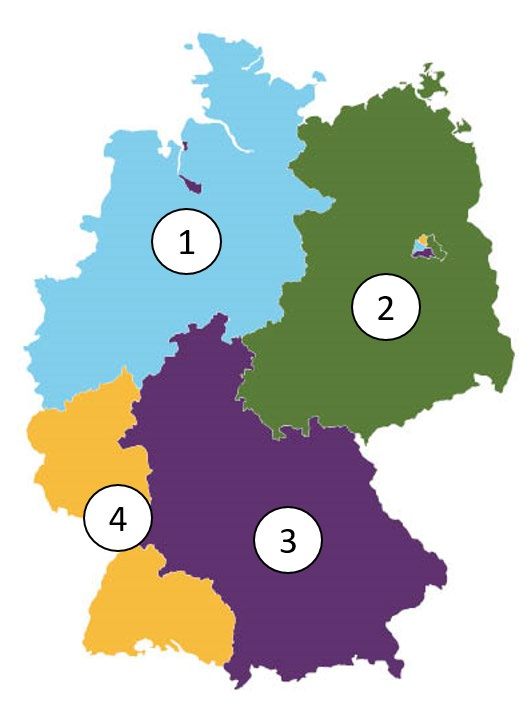
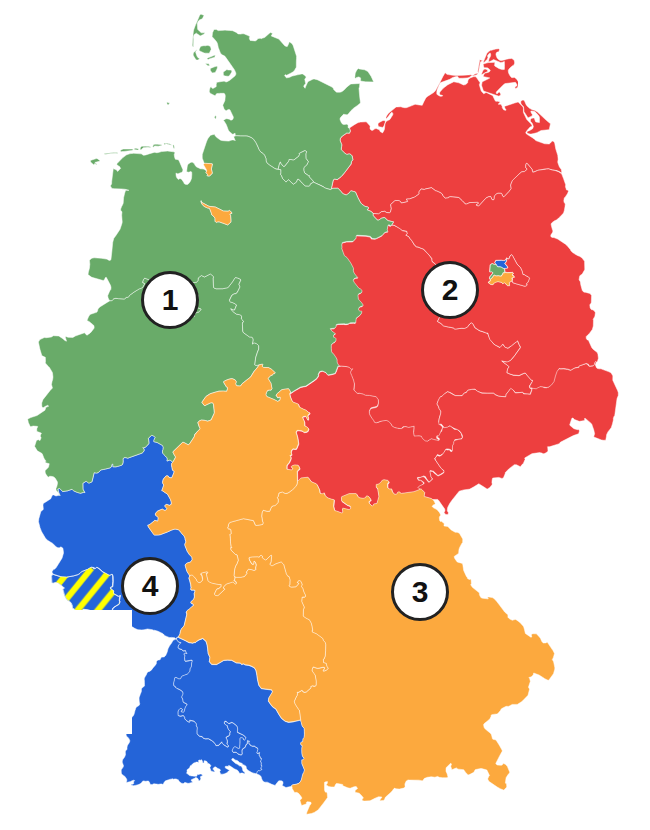
chore(images): replace all question images with freely licensed sources
The previous images were extracted from the official BAMF catalogue, whose
image credits run through the IQB institute and carry no public licence.
Every image now has a recorded source.

- coats of arms and flags: official public-domain artwork (§5 UrhG)
- occupation zones + Germany locator: CC BY-SA 3.0 base maps, with numbers
  overlaid; corner national flags covered on the zone map so the numbered
  zones carry the exercise
- Reichstag and Plenarsaal photographs: CC BY-SA 4.0
- Willy-Brandt memorial plaque: CC0
- Kohl/Mitterrand handshake: CC BY 4.0
- Heinemann portrait: Bundesarchiv, CC BY-SA 3.0 DE

Three questions originally used copyrighted press photographs (1970 Kniefall,
1974 appointment, 1984 Verdun); these are replaced by freely licensed images
of the same subject and flagged as stand-ins in images/Bildnachweis.md.

Question texts, answer keys and option order are untouched. Repo images
7.5 MB -> 2.7 MB. Service worker cache bumped to ebt-v8.

diff --git a/js/data/questions.js b/js/data/questions.js
@@ -58,7 +58,7 @@ export const QUESTIONS = [
   {id:52,text:"Was bedeutet 'Volkssouveränität'? Alle Staatsgewalt geht vom ...",options:["Volke aus.","Bundestag aus.","preußischen König aus.","Bundesverfassungsgericht aus."],answer:0,cat:"Staat",textEn:"What does 'popular sovereignty' mean? All state authority comes from the …",optionsEn:["people.","Bundestag.","Prussian king.","Federal Constitutional Court."]},
   {id:53,text:"Was bedeutet 'Rechtsstaat' in Deutschland?",options:["Der Staat hat Recht.","Es gibt nur rechte Parteien.","Die Bürgerinnen und Bürger entscheiden über Gesetze.","Der Staat muss die Gesetze einhalten."],answer:3,cat:"Staat",textEn:"What does 'constitutional state' mean in Germany?",optionsEn:["The state is in the right.","There are only right-wing parties.","The citizens decide on the laws.","The state must abide by the laws."]},
   {id:54,text:"Was ist keine staatliche Gewalt in Deutschland?",options:["Legislative","Judikative","Exekutive","Direktive"],answer:3,cat:"Staat",textEn:"Which of these is not a branch of state power in Germany?",optionsEn:["legislative branch","judicial branch","executive branch","directive"]},
-  {id:55,text:"Was zeigt dieses Bild?",image:"general_55_question.jpg",options:["den Bundestagssitz in Berlin","das Bundesverfassungsgericht in Karlsruhe","das Bundesratsgebäude in Berlin","das Bundeskanzleramt in Berlin"],answer:0,cat:"Staat",textEn:"What does this image show?",optionsEn:["the Bundestag seat in Berlin","the Federal Constitutional Court in Karlsruhe","the Bundesrat building in Berlin","the Federal Chancellery in Berlin"]},
+  {id:55,text:"Was zeigt dieses Bild?",image:"general_55_question.png",options:["den Bundestagssitz in Berlin","das Bundesverfassungsgericht in Karlsruhe","das Bundesratsgebäude in Berlin","das Bundeskanzleramt in Berlin"],answer:0,cat:"Staat",textEn:"What does this image show?",optionsEn:["the Bundestag seat in Berlin","the Federal Constitutional Court in Karlsruhe","the Bundesrat building in Berlin","the Federal Chancellery in Berlin"]},
   {id:56,text:"Welches Amt gehört in Deutschland zur Gemeindeverwaltung?",options:["Pfarramt","Ordnungsamt","Finanzamt","Auswärtiges Amt"],answer:1,cat:"Bund und Länder",textEn:"Which authority is part of the municipal administration in Germany?",optionsEn:["the parish office","the public order office","the tax office","the Foreign Office"]},
   {id:57,text:"Wer wird meistens zur Präsidentin / zum Präsidenten des Deutschen Bundestages gewählt?",options:["die / der älteste Abgeordnete im Parlament","die Ministerpräsidentin / der Ministerpräsident des größten Bundeslandes","eine ehemalige Bundeskanzlerin / ein ehemaliger Bundeskanzler","eine Abgeordnete / ein Abgeordneter der stärksten Fraktion"],answer:3,cat:"Politik",textEn:"Who is usually elected President of the German Bundestag?",optionsEn:["the oldest member of parliament","the Minister-President of the largest federal state","a former Federal Chancellor","a member of parliament from the strongest parliamentary group"]},
   {id:58,text:"Wer ernennt in Deutschland die Ministerinnen / die Minister der Bundesregierung?",options:["die Präsidentin / der Präsident des Bundesverfassungsgerichtes","die Bundespräsidentin / der Bundespräsident","die Bundesratspräsidentin / der Bundesratspräsident","die Bundestagspräsidentin / der Bundestagspräsident"],answer:1,cat:"Politik",textEn:"Who appoints the ministers of the Federal Government in Germany?",optionsEn:["the President of the Federal Constitutional Court","the Federal President","the President of the Bundesrat","the President of the Bundestag"]},
@@ -133,7 +133,7 @@ export const QUESTIONS = [
   {id:127,text:"Warum gibt es die 5%-Hürde im Wahlgesetz der Bundesrepublik Deutschland? Es gibt sie, weil …",options:["die Programme von vielen kleinen Parteien viele Gemeinsamkeiten haben.","die Bürgerinnen und Bürger bei vielen kleinen Parteien die Orientierung verlieren können.","viele kleine Parteien die Regierungsbildung erschweren.","die kleinen Parteien nicht so viel Geld haben, um die Politikerinnen und Politiker zu bezahlen."],answer:2,cat:"Politik",textEn:"Why is there a 5% threshold in the electoral law of the Federal Republic of Germany? It exists because …",optionsEn:["the programmes of many small parties have many things in common.","citizens can lose track if there are many small parties.","many small parties make forming a government more difficult.","the small parties don't have enough money to pay the politicians."]},
   {id:128,text:"Parlamentsmitglieder, die von den Bürgerinnen und Bürgern gewählt werden, nennt man …",options:["Abgeordnete.","Kanzlerinnen / Kanzler.","Botschafterinnen / Botschafter.","Ministerpräsidentinnen / Ministerpräsidenten."],answer:0,cat:"Politik",textEn:"Members of parliament elected by citizens are called …",optionsEn:["members of parliament.","chancellors.","ambassadors.","Minister-Presidents."]},
   {id:129,text:"Vom Volk gewählt wird in Deutschland …",options:["die Bundeskanzlerin / der Bundeskanzler.","die Ministerpräsidentin / der Ministerpräsident eines Bundeslandes.","der Bundestag.","die Bundespräsidentin / der Bundespräsident."],answer:2,cat:"Politik",textEn:"In Germany, the people directly elect …",optionsEn:["the Federal Chancellor.","the Minister-President of a federal state.","the Bundestag.","the Federal President."]},
-  {id:130,text:"Welcher Stimmzettel wäre bei einer Bundestagswahl gültig?",image:"general_130_question.png",options:["1","2","3","4"],answer:0,cat:"Politik",textEn:"Which ballot paper would be valid in a federal election?",optionsEn:["1","2","3","4"]},
+  {id:130,text:"Welcher Stimmzettel wäre bei einer Bundestagswahl gültig?",image:"general_130_question.svg",options:["1","2","3","4"],answer:0,cat:"Politik",textEn:"Which ballot paper would be valid in a federal election?",optionsEn:["1","2","3","4"]},
   {id:131,text:"In Deutschland ist eine Bürgermeisterin / ein Bürgermeister …",options:["die Leiterin / der Leiter einer Schule.","die Chefin / der Chef einer Bank.","das Oberhaupt einer Gemeinde.","die / der Vorsitzende einer Partei."],answer:2,cat:"Staat",textEn:"In Germany, a mayor is …",optionsEn:["the head of a school.","the head of a bank.","the head of a municipality.","the chair of a political party."]},
   {id:132,text:"Viele Menschen in Deutschland arbeiten in ihrer Freizeit ehrenamtlich. Was bedeutet das?",options:["Sie arbeiten als Soldatinnen / Soldaten.","Sie arbeiten freiwillig und unbezahlt in Vereinen und Verbänden.","Sie arbeiten in der Bundesregierung.","Sie arbeiten in einem Krankenhaus und verdienen dabei Geld."],answer:1,cat:"Gesellschaft und Familie",textEn:"Many people in Germany do voluntary work in their spare time. What does that mean?",optionsEn:["They work as soldiers.","They work voluntarily and without pay in clubs and associations.","They work in the Federal Government.","They work in a hospital and earn money doing so."]},
   {id:133,text:"Was ist bei Bundestags- und Landtagswahlen in Deutschland erlaubt?",options:["Der Ehemann wählt für seine Frau mit.","Man kann durch Briefwahl seine Stimme abgeben.","Man kann am Wahltag telefonisch seine Stimme abgeben.","Kinder ab dem Alter von 14 Jahren dürfen wählen."],answer:1,cat:"Politik",textEn:"What is allowed in Bundestag and state parliament elections in Germany?",optionsEn:["The husband votes on behalf of his wife as well.","You can cast your vote by postal ballot.","You can cast your vote by phone on election day.","Children from the age of 14 are allowed to vote."]},
@@ -184,13 +184,13 @@ export const QUESTIONS = [
   {id:178,text:"Vom Juni 1948 bis zum Mai 1949 wurden die Bürgerinnen und Bürger von West-Berlin durch eine Luftbrücke versorgt. Welcher Umstand war dafür verantwortlich?",options:["Für Frankreich war eine Versorgung der West-Berliner Bevölkerung mit dem Flugzeug kostengünstiger.","Die amerikanischen Soldatinnen und Soldaten hatten beim Landtransport Angst vor Überfällen.","Für Großbritannien war die Versorgung über die Luftbrücke schneller.","Die Sowjetunion unterbrach den gesamten Verkehr auf dem Landwege."],answer:3,cat:"Geschichte",textEn:"From June 1948 to May 1949, the citizens of West Berlin were supplied via an airlift. Which circumstance was responsible for this?",optionsEn:["For France, supplying the West Berlin population by plane was more cost-effective.","American soldiers were afraid of attacks during land transport.","For Great Britain, supply via the airlift was faster.","The Soviet Union cut off all overland traffic."]},
   {id:179,text:"Wie endete der Zweite Weltkrieg in Europa offiziell?",options:["mit dem Tod Adolf Hitlers","durch die bedingungslose Kapitulation Deutschlands","mit dem Rückzug der Deutschen aus den besetzten Gebieten","durch eine Revolution in Deutschland"],answer:1,cat:"Geschichte",textEn:"How did the Second World War end officially in Europe?",optionsEn:["with the death of Adolf Hitler","through Germany's unconditional surrender","with the withdrawal of the Germans from the occupied territories","through a revolution in Germany"]},
   {id:180,text:"Der erste Bundeskanzler der Bundesrepublik Deutschland war …",options:["Ludwig Erhard.","Willy Brandt.","Konrad Adenauer.","Gerhard Schröder."],answer:2,cat:"Geschichte",textEn:"The first Federal Chancellor of the Federal Republic of Germany was …",optionsEn:["Ludwig Erhard.","Willy Brandt.","Konrad Adenauer.","Gerhard Schröder."]},
-  {id:181,text:"Was wollte Willy Brandt mit seinem Kniefall 1970 im ehemaligen jüdischen Ghetto in Warschau ausdrücken?",image:"general_181_question.jpg",options:["Er hat sich den ehemaligen Alliierten unterworfen.","Er bat Polen und die polnischen Juden um Vergebung.","Er zeigte seine Demut vor dem Warschauer Pakt.","Er sprach ein Gebet am Grab des Unbekannten Soldaten."],answer:1,cat:"Geschichte",textEn:"What did Willy Brandt want to express with his genuflection in 1970 at the former Jewish Ghetto in Warsaw?",optionsEn:["He submitted to the former Allies.","He asked Poland and the Polish Jews for forgiveness.","He showed his humility before the Warsaw Pact.","He said a prayer at the Tomb of the Unknown Soldier."]},
+  {id:181,text:"Was wollte Willy Brandt mit seinem Kniefall 1970 im ehemaligen jüdischen Ghetto in Warschau ausdrücken?",image:"general_181_question.png",options:["Er hat sich den ehemaligen Alliierten unterworfen.","Er bat Polen und die polnischen Juden um Vergebung.","Er zeigte seine Demut vor dem Warschauer Pakt.","Er sprach ein Gebet am Grab des Unbekannten Soldaten."],answer:1,cat:"Geschichte",textEn:"What did Willy Brandt want to express with his genuflection in 1970 at the former Jewish Ghetto in Warsaw?",optionsEn:["He submitted to the former Allies.","He asked Poland and the Polish Jews for forgiveness.","He showed his humility before the Warsaw Pact.","He said a prayer at the Tomb of the Unknown Soldier."]},
   {id:182,text:"Wie heißt das jüdische Gebetshaus?",options:["Basilika","Moschee","Synagoge","Kirche"],answer:2,cat:"Religion und Kultur",textEn:"What is the Jewish house of prayer called?",optionsEn:["Basilica","Mosque","Synagogue","Church"]},
   {id:183,text:"Wann war in der Bundesrepublik Deutschland das \"Wirtschaftswunder\"?",options:["40er Jahre","50er Jahre","70er Jahre","80er Jahre"],answer:1,cat:"Geschichte",textEn:"When did the \"economic miracle\" take place in the Federal Republic of Germany?",optionsEn:["the 1940s","the 1950s","the 1970s","the 1980s"]},
   {id:184,text:"Auf welcher rechtlichen Grundlage wurde der Staat Israel gegründet?",options:["eine Resolution der Vereinten Nationen","ein Beschluss des Zionistenkongresses","ein Vorschlag der Bundesregierung","ein Vorschlag der UdSSR"],answer:0,cat:"Geschichte",textEn:"On what legal basis was the State of Israel founded?",optionsEn:["a United Nations resolution","a decision of the Zionist Congress","a proposal by the Federal Government","a proposal by the USSR"]},
   {id:185,text:"Wofür stand der Ausdruck \"Eiserner Vorhang\"? Für die Abschottung …",options:["des Warschauer Pakts gegen den Westen","Norddeutschlands gegen Süddeutschland","Nazi-Deutschlands gegen die Alliierten","Europas gegen die USA"],answer:0,cat:"Geschichte",textEn:"What did the expression 'Iron Curtain' stand for? The sealing off of …",optionsEn:["the Warsaw Pact against the West","northern Germany against southern Germany","Nazi Germany against the Allies","Europe against the USA"]},
   {id:186,text:"Im Jahr 1953 gab es in der DDR einen Aufstand, an den lange Zeit in der Bundesrepublik Deutschland ein Feiertag erinnerte. Wann war das?",options:["1. Mai","17. Juni","20. Juli","9. November"],answer:1,cat:"Geschichte",textEn:"In 1953 there was a popular uprising in the GDR, which for a long time was commemorated by a public holiday in the Federal Republic of Germany. When was that?",optionsEn:["1 May","17 June","20 July","9 November"]},
-  {id:187,text:"Welcher deutsche Staat hatte eine schwarz-rot-goldene Flagge mit Hammer, Zirkel und Ährenkranz?",image:"general_187_question.png",options:["Preußen","Bundesrepublik Deutschland","\"Drittes Reich\"","DDR"],answer:3,cat:"Geschichte",textEn:"Which German state had a black-red-gold flag with a hammer, compass and wreath of grain?",optionsEn:["Prussia","Federal Republic of Germany","\"Third Reich\"","GDR"]},
+  {id:187,text:"Welcher deutsche Staat hatte eine schwarz-rot-goldene Flagge mit Hammer, Zirkel und Ährenkranz?",image:"general_187_question.svg",options:["Preußen","Bundesrepublik Deutschland","\"Drittes Reich\"","DDR"],answer:3,cat:"Geschichte",textEn:"Which German state had a black-red-gold flag with a hammer, compass and wreath of grain?",optionsEn:["Prussia","Federal Republic of Germany","\"Third Reich\"","GDR"]},
   {id:188,text:"In welchem Jahr wurde die Mauer in Berlin gebaut?",options:["1953","1956","1959","1961"],answer:3,cat:"Geschichte",textEn:"In which year was the Berlin Wall built?",optionsEn:["1953","1956","1959","1961"]},
   {id:189,text:"Wann baute die DDR die Mauer in Berlin?",options:["1919","1933","1961","1990"],answer:2,cat:"Geschichte",textEn:"When did the GDR build the Wall in Berlin?",optionsEn:["1919","1933","1961","1990"]},
   {id:190,text:"Was bedeutet die Abkürzung DDR?",options:["Dritter Deutscher Rundfunk","Die Deutsche Republik","Dritte Deutsche Republik","Deutsche Demokratische Republik"],answer:3,cat:"Geschichte",textEn:"What does the abbreviation DDR stand for?",optionsEn:["Dritter Deutscher Rundfunk","Die Deutsche Republik","Dritte Deutsche Republik","Deutsche Demokratische Republik (German Democratic Republic)"]},
@@ -219,7 +219,7 @@ export const QUESTIONS = [
   {id:213,text:"Wie viele Einwohner hat Deutschland?",options:["70 Millionen","78 Millionen","84 Millionen","90 Millionen"],answer:2,cat:"Staat",textEn:"How many inhabitants does Germany have?",optionsEn:["70 million","78 million","84 million","90 million"]},
   {id:214,text:"Welche Farben hat die deutsche Flagge?",options:["schwarz-rot-gold","rot-weiß-schwarz","schwarz-rot-grün","schwarz-gelb-rot"],answer:0,cat:"Staat",textEn:"What colours does the German flag have?",optionsEn:["black-red-gold","red-white-black","black-red-green","black-yellow-red"]},
   {id:215,text:"Wer wird als \"Kanzler der Deutschen Einheit\" bezeichnet?",options:["Gerhard Schröder","Helmut Kohl","Konrad Adenauer","Helmut Schmidt"],answer:1,cat:"Geschichte",textEn:"Who is referred to as the \"Chancellor of German Unity\"?",optionsEn:["Gerhard Schröder","Helmut Kohl","Konrad Adenauer","Helmut Schmidt"]},
-  {id:216,text:"Welches Symbol ist im Plenarsaal des Deutschen Bundestages zu sehen?",image:"general_216_question.jpg",options:["der Bundesadler","die Fahne der Stadt Berlin","der Reichsadler","die Reichskrone"],answer:0,cat:"Politik",textEn:"Which symbol can be seen in the plenary chamber of the German Bundestag?",optionsEn:["the Bundesadler (Federal Eagle)","the flag of the city of Berlin","the Reichsadler (Imperial Eagle)","the Imperial Crown"]},
+  {id:216,text:"Welches Symbol ist im Plenarsaal des Deutschen Bundestages zu sehen?",image:"general_216_question.png",options:["der Bundesadler","die Fahne der Stadt Berlin","der Reichsadler","die Reichskrone"],answer:0,cat:"Politik",textEn:"Which symbol can be seen in the plenary chamber of the German Bundestag?",optionsEn:["the Bundesadler (Federal Eagle)","the flag of the city of Berlin","the Reichsadler (Imperial Eagle)","the Imperial Crown"]},
   {id:217,text:"In welchem Zeitraum gab es die Deutsche Demokratische Republik (DDR)?",options:["1919 bis 1927","1933 bis 1945","1945 bis 1961","1949 bis 1990"],answer:3,cat:"Geschichte",textEn:"During which period did the German Democratic Republic (GDR) exist?",optionsEn:["1919 to 1927","1933 to 1945","1945 to 1961","1949 to 1990"]},
   {id:218,text:"Wie viele Bundesländer kamen bei der Wiedervereinigung 1990 zur Bundesrepublik Deutschland hinzu?",options:["4","5","6","7"],answer:1,cat:"Geschichte",textEn:"How many federal states joined the Federal Republic of Germany at reunification in 1990?",optionsEn:["4","5","6","7"]},
   {id:219,text:"Die Bundesrepublik Deutschland hat die Grenzen von heute seit …",options:["1933","1949","1971","1990"],answer:3,cat:"Geschichte",textEn:"The Federal Republic of Germany has had its current borders since …",optionsEn:["1933","1949","1971","1990"]},
@@ -238,7 +238,7 @@ export const QUESTIONS = [
   {id:232,text:"Wer wird bei der Europawahl gewählt?",options:["die Europäische Kommission","die Länder, die in die EU eintreten dürfen","die Abgeordneten des Europäischen Parlaments","die europäische Verfassung"],answer:2,cat:"Europa und Welt",textEn:"Who is elected in the European elections?",optionsEn:["the European Commission","the countries allowed to join the EU","the members of the European Parliament","the European constitution"]},
   {id:233,text:"Welches Land ist ein Nachbarland von Deutschland?",options:["Tschechien","Bulgarien","Griechenland","Portugal"],answer:0,cat:"Europa und Welt",textEn:"Which country is a neighbouring country of Germany?",optionsEn:["Czech Republic","Bulgaria","Greece","Portugal"]},
   {id:234,text:"Wo ist ein Sitz des Europäischen Parlaments?",options:["London","Paris","Berlin","Straßburg"],answer:3,cat:"Europa und Welt",textEn:"Where is one of the seats of the European Parliament?",optionsEn:["London","Paris","Berlin","Strasbourg"]},
-  {id:235,text:"Der damalige französische Staatspräsident François Mitterrand und der damalige deutsche Bundeskanzler Helmut Kohl gedenken in Verdun gemeinsam der Toten beider Weltkriege. Welches Ziel der Europäischen Union wird bei diesem Treffen deutlich?",image:"general_235_question.jpg",options:["Freundschaft zwischen England und Deutschland","Reisefreiheit in alle Länder der EU","Frieden und Sicherheit in den Ländern der EU","einheitliche Feiertage in den Ländern der EU"],answer:2,cat:"Geschichte",textEn:"François Mitterrand and Helmut Kohl jointly commemorate the dead of both World Wars in Verdun. Which goal of the European Union becomes clear at this meeting?",optionsEn:["Friendship between England and Germany","Freedom to travel to all EU countries","Peace and security in the EU countries","Uniform public holidays in EU countries"]},
+  {id:235,text:"Der damalige französische Staatspräsident François Mitterrand und der damalige deutsche Bundeskanzler Helmut Kohl gedenken in Verdun gemeinsam der Toten beider Weltkriege. Welches Ziel der Europäischen Union wird bei diesem Treffen deutlich?",image:"general_235_question.png",options:["Freundschaft zwischen England und Deutschland","Reisefreiheit in alle Länder der EU","Frieden und Sicherheit in den Ländern der EU","einheitliche Feiertage in den Ländern der EU"],answer:2,cat:"Geschichte",textEn:"François Mitterrand and Helmut Kohl jointly commemorate the dead of both World Wars in Verdun. Which goal of the European Union becomes clear at this meeting?",optionsEn:["Friendship between England and Germany","Freedom to travel to all EU countries","Peace and security in the EU countries","Uniform public holidays in EU countries"]},
   {id:236,text:"Wie viele Mitgliedstaaten hat die EU heute?",options:["21","23","25","27"],answer:3,cat:"Europa und Welt",textEn:"How many member states does the EU have today?",optionsEn:["21","23","25","27"]},
   {id:237,text:"Was war der Inhalt der \"Römischen Verträge\"?",options:["Beitritt Deutschlands zur NATO","Gründung der Europäischen Wirtschaftsgemeinschaft (EWG)","Verpflichtung Deutschlands zu Reparationsleistungen","Festlegung der Oder-Neiße-Linie als Ostgrenze"],answer:1,cat:"Europa und Welt",textEn:"What was the content of the \"Treaties of Rome\"?",optionsEn:["Germany's accession to NATO","the founding of the European Economic Community (EEC)","Germany's obligation to pay reparations","the establishment of the Oder-Neisse Line as the eastern border"]},
   {id:238,text:"An welchen Orten arbeitet das Europäische Parlament?",options:["Paris, London und Den Haag","Straßburg, Luxemburg und Brüssel","Rom, Bern und Wien","Bonn, Zürich und Mailand"],answer:1,cat:"Europa und Welt",textEn:"In which places does the European Parliament work?",optionsEn:["Paris, London and The Hague","Strasbourg, Luxembourg and Brussels","Rome, Bern and Vienna","Bonn, Zurich and Milan"]},

diff --git a/sw.js b/sw.js
@@ -1,4 +1,4 @@
-const CACHE = 'ebt-v5';
+const CACHE = 'ebt-v8';
 const offlineResponse = () =>
   new Response('Offline – bitte später erneut versuchen.', {
     status: 503,
@@ -18,16 +18,16 @@ const ASSETS = [
   '/js/data/questions.js',
   '/manifest.json',
   '/images/questions/general_21_question.png',
-  '/images/questions/general_55_question.jpg',
+  '/images/questions/general_55_question.png',
   '/images/questions/general_70_question.png',
-  '/images/questions/general_130_question.png',
+  '/images/questions/general_130_question.svg',
   '/images/questions/general_176_question.png',
-  '/images/questions/general_181_question.jpg',
-  '/images/questions/general_187_question.png',
+  '/images/questions/general_181_question.png',
+  '/images/questions/general_187_question.svg',
   '/images/questions/general_209_question.png',
-  '/images/questions/general_216_question.jpg',
+  '/images/questions/general_216_question.png',
   '/images/questions/general_226_question.png',
-  '/images/questions/general_235_question.jpg',
+  '/images/questions/general_235_question.png',
   '/images/questions/berlin_1_question.png',
   '/images/questions/berlin_8_question.png',
 ];

diff --git a/images/Bildnachweis.md b/images/Bildnachweis.md
@@ -1,0 +1,74 @@
+# Bildnachweis
+
+Sources and licences for every image in `images/questions/`.
+
+All composites were assembled locally: the underlying artwork is unmodified in
+substance, with option numbering added and, on the occupation-zone map, four
+corner flags covered so the numbered zones carry the exercise.
+
+## Public domain — no attribution required
+
+Listed for transparency. These are official coats of arms and flags; German
+official works and state symbols are not protected by copyright (§5 UrhG).
+
+| Used in | Source file (Wikimedia Commons) | Licence |
+| --- | --- | --- |
+| `general_21`, `general_209` | [Coat of arms of Germany.svg](https://commons.wikimedia.org/wiki/File:Coat_of_arms_of_Germany.svg) | Public domain |
+| `general_21`, `berlin_1` | [Coat of arms of Berlin.svg](https://commons.wikimedia.org/wiki/File:Coat_of_arms_of_Berlin.svg) | Public domain |
+| `berlin_1` | [Coat of arms of Bavaria.svg](https://commons.wikimedia.org/wiki/File:Coat_of_arms_of_Bavaria.svg) | Public domain |
+| `general_21`, `general_209`, `berlin_1` | [Coat of arms of Hamburg.svg](https://commons.wikimedia.org/wiki/File:Coat_of_arms_of_Hamburg.svg) | Public domain |
+| `general_21`, `general_209`, `berlin_1` | [Coat of arms of Schleswig-Holstein.svg](https://commons.wikimedia.org/wiki/File:Coat_of_arms_of_Schleswig-Holstein.svg) | Public domain |
+| `general_209` | [Coat of arms of East Germany.svg](https://commons.wikimedia.org/wiki/File:Coat_of_arms_of_East_Germany.svg) | Public domain |
+| `general_187` | [Flag of East Germany.svg](https://commons.wikimedia.org/wiki/File:Flag_of_East_Germany.svg) | Public domain |
+| `general_226` | [Flag of Europe.svg](https://commons.wikimedia.org/wiki/File:Flag_of_Europe.svg) | Public domain |
+| `general_226` | [Flag of Germany.svg](https://commons.wikimedia.org/wiki/File:Flag_of_Germany.svg) | Public domain |
+| `general_226` | [Flag of France.svg](https://commons.wikimedia.org/wiki/File:Flag_of_France.svg) | Public domain |
+| `general_226` | [Flag of Poland.svg](https://commons.wikimedia.org/wiki/File:Flag_of_Poland.svg) | Public domain |
+
+## CC BY-SA 3.0 — attribution required
+
+| Used in | Source | Author | Licence |
+| --- | --- | --- | --- |
+| `general_176` | [Deutschland Besatzungszonen - 1945 1946.svg](https://commons.wikimedia.org/wiki/File:Deutschland_Besatzungszonen_-_1945_1946.svg) | 52 Pickup | [CC BY-SA 3.0](https://creativecommons.org/licenses/by-sa/3.0/) |
+| `berlin_8` | [Germany location map.svg](https://commons.wikimedia.org/wiki/File:Germany_location_map.svg) | NordNordWest | [CC BY-SA 3.0](https://creativecommons.org/licenses/by-sa/3.0/) |
+
+Both files were modified here (numbers 1–4 added; flags covered on the zone
+map). As adaptations of CC BY-SA 3.0 material, `general_176_question.png` and
+`berlin_8_question.png` are licensed **CC BY-SA 4.0**, matching the licence of
+the rest of the learning content in this repository.
+
+## Own work
+
+| Used in | Notes |
+| --- | --- |
+| `general_130` | Ballot-paper illustration, drawn for this project. CC BY-SA 4.0. |
+
+## CC-licensed photographs — attribution required
+
+| Used in | Source | Author | Licence |
+| --- | --- | --- | --- |
+| `general_55` | [Reichstagsgebäude von Westen.jpg](https://commons.wikimedia.org/wiki/File:Reichstagsgeb%C3%A4ude_von_Westen.jpg) | Jörg Braukmann | [CC BY-SA 4.0](https://creativecommons.org/licenses/by-sa/4.0/) |
+| `general_216` | [2020-02-13 Deutscher Bundestag IMG 3438 by Stepro.jpg](https://commons.wikimedia.org/wiki/File:2020-02-13_Deutscher_Bundestag_IMG_3438_by_Stepro.jpg) | Steffen Prößdorf | [CC BY-SA 4.0](https://creativecommons.org/licenses/by-sa/4.0/) |
+| `general_70` | [Bundesarchiv Bild 146-2007-0037, Gustav Heinemann.jpg](https://commons.wikimedia.org/wiki/File:Bundesarchiv_Bild_146-2007-0037,_Gustav_Heinemann.jpg) | Bauer, Georg (Bundesarchiv) | [CC BY-SA 3.0 DE](https://creativecommons.org/licenses/by-sa/3.0/de/) |
+| `general_235` | [Handshake between François Mitterrand and Helmut Kohl — 1982 Copenhagen European Council](https://commons.wikimedia.org/wiki/File:Handshake_between_Fran%C3%A7ois_Mitterrand_and_Helmut_Kohl_-_1982_Copenhagen_European_Council.jpg) | European Communities, 1982 / EC Audiovisual Service | [CC BY 4.0](https://creativecommons.org/licenses/by/4.0/) |
+| `general_181` | [2022 Warszawa pomnik Willy'ego Brandta, 1.jpg](https://commons.wikimedia.org/wiki/File:2022_Warszawa_pomnik_Willy%27ego_Brandta,_1.jpg) | Cybularny | [CC0](https://creativecommons.org/publicdomain/zero/1.0/) |
+
+Composites carrying CC BY-SA material (`general_55`, `general_70`, `general_216`)
+are licensed **CC BY-SA 4.0**, matching the rest of the learning content.
+`general_235` is CC BY 4.0 and `general_181` is CC0.
+
+## Note on photographic substitutions
+
+The three original period photographs used by the official catalogue are still
+under copyright and are not reproduced here. Each has been replaced by a
+freely licensed image of the same subject:
+
+| Question | Original | Used instead |
+| --- | --- | --- |
+| `general_70` | Heinemann handing Schmidt his appointment certificate, 1974 | Bundesarchiv portrait of Gustav Heinemann |
+| `general_181` | Brandt's genuflection at the Warsaw Ghetto memorial, 1970 | The memorial plaque at that site, depicting the genuflection |
+| `general_235` | Mitterrand and Kohl at Verdun, 1984 | The two men shaking hands at the 1982 Copenhagen European Council |
+
+The question text is unchanged and still describes the original event; the
+images illustrate the subject rather than reproducing the historic frame.
+
